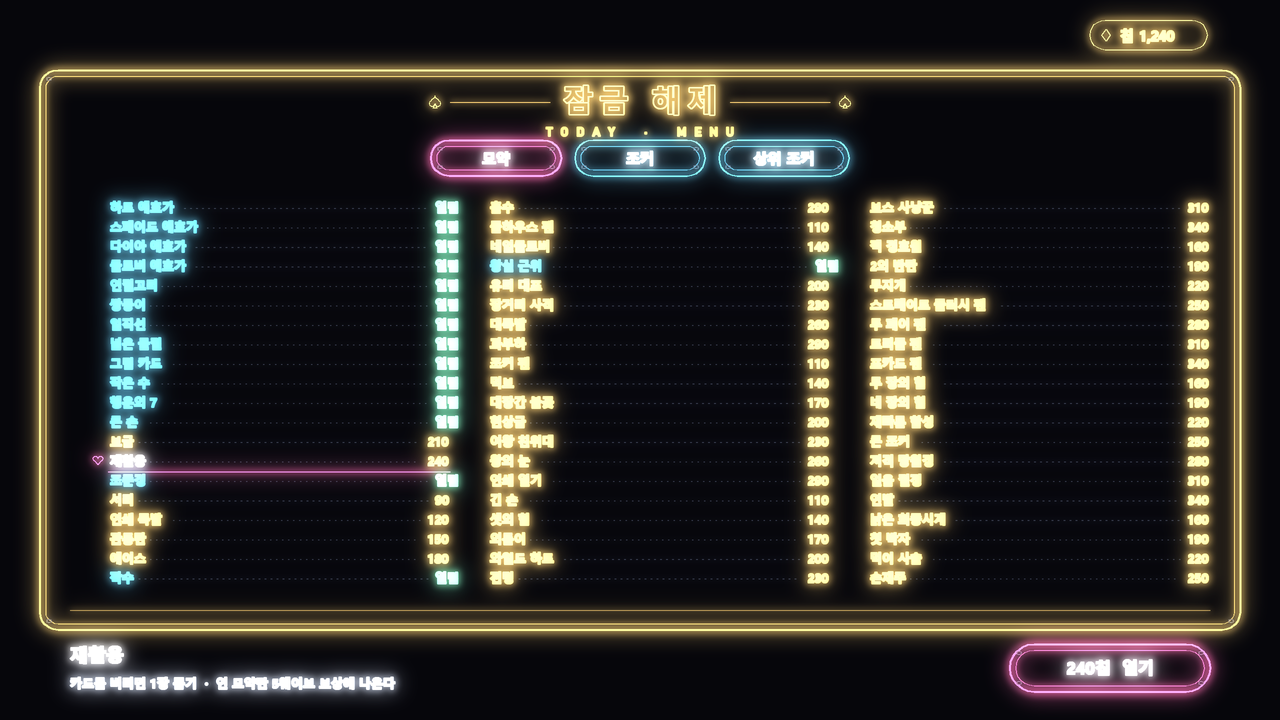
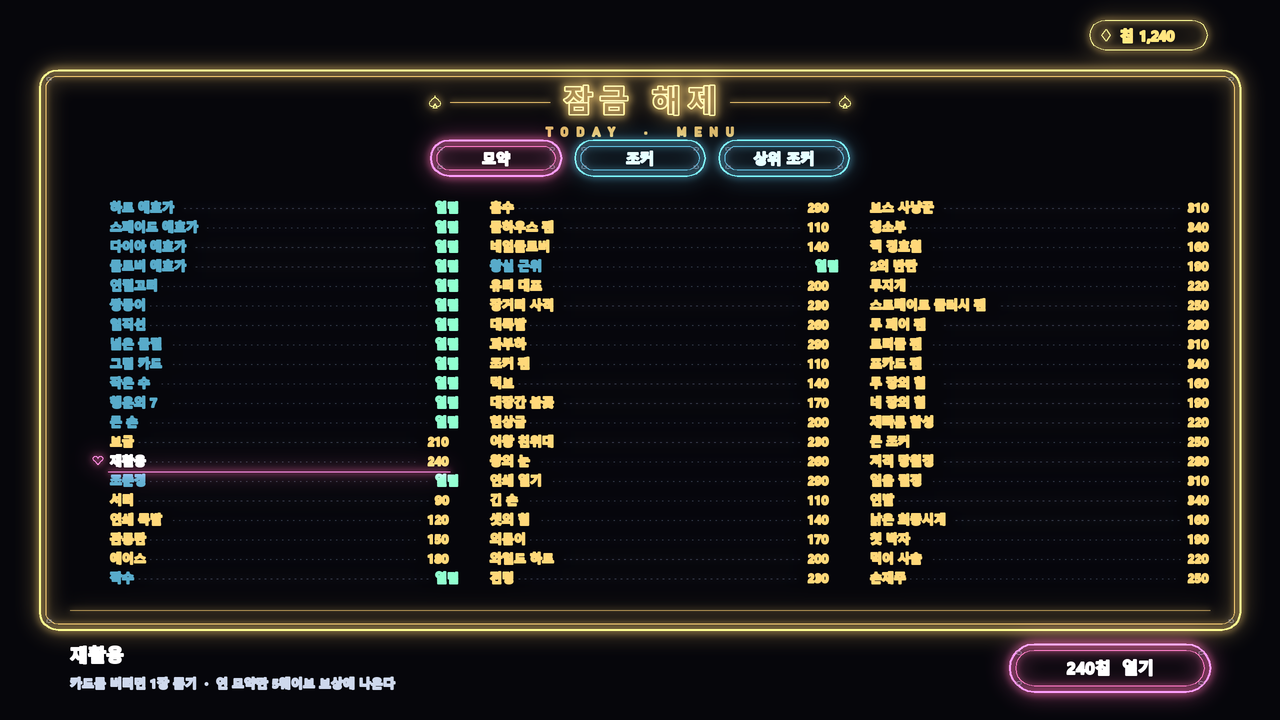
Unlock menu mockups: no glow on small text for readability (D-257)

diff --git a/tools/neon/logo_mock.py b/tools/neon/logo_mock.py
@@ -32,6 +32,7 @@ class Sign:
     def __init__(self, glow_k=1.0):
         self.lines, self.texts, self.dots = [], [], []
         self.glow_k = glow_k  # 빛번짐 세기 (색감을 죽인 시안은 낮춘다)
+        self.small_glow = 1.0  # 작은 글자(26px 미만)의 빛번짐 배율. 글이 많은 화면은 낮춰 읽기 쉽게 (D-257)
 
     def ln(self, pts, c, wd=2.0, b=1.0): self.lines.append((pts, c, wd, b))
     def rr(self, x, y, w, h, r, c, wd=2.0, b=1.0):
@@ -84,7 +85,8 @@ class Sign:
         for (x, y, ch, c, px, b, font) in self.texts:
             f = ImageFont.truetype(font, int(px * S))
             tw = max(2, int(px * S * 0.055))
-            if b > 0.25: gd.text((x * S, y * S), ch, font=f, fill=dim(c, b), anchor='ls', stroke_width=tw * 3, stroke_fill=dim(c, b))
+            gb = b * (self.small_glow if px < 26 else 1.0)
+            if gb > 0.05: gd.text((x * S, y * S), ch, font=f, fill=dim(c, gb), anchor='ls', stroke_width=tw * 3, stroke_fill=dim(c, gb))
             # 튜브: 외곽선만 (속은 배경색으로 다시 칠함)
             cd.text((x * S, y * S), ch, font=f, fill=dim(c, max(0.16, b)), anchor='ls', stroke_width=tw, stroke_fill=dim(c, max(0.16, b)))
             if px < 26:  # 작은 글자는 속을 비우지 않는다 (읽기 쉽게)

diff --git a/tools/neon/unlock_menu.py b/tools/neon/unlock_menu.py
@@ -100,7 +100,8 @@ def buy_btn(M, x, y, w, h, txt, c=PINK):
 
 # ---------------------------------------------------------------- A 벽 메뉴 보드
 def unlock_A():
-    M = Sign()
+    M = Sign(0.75)
+    M.small_glow = 0.0  # 글이 많은 메뉴판: 작은 글자는 빛번짐 없이 (D-257)
     chip(M, 1090, 20, f'칩 {CHIPS:,}')
     tube2(M, 40, 70, 1200, 560, 18, GOLD, 0.85)
     menu_header(M, 640, 112, '잠금 해제', 'TODAY  ·  MENU')
@@ -119,7 +120,8 @@ def unlock_A():
 
 # ---------------------------------------------------------------- B 메뉴북 (두 쪽)
 def unlock_B():
-    M = Sign()
+    M = Sign(0.75)
+    M.small_glow = 0.0  # 글이 많은 메뉴판: 작은 글자는 빛번짐 없이 (D-257)
     chip(M, 1090, 20, f'칩 {CHIPS:,}')
     tabs(M, 640, 22, 0)
     # 책: 두 쪽 + 가운데 접힘
@@ -162,7 +164,8 @@ def joker_icon(M, x, y, r, c, b=1.0):
 
 
 def unlock_C():
-    M = Sign()
+    M = Sign(0.75)
+    M.small_glow = 0.0  # 글이 많은 메뉴판: 작은 글자는 빛번짐 없이 (D-257)
     chip(M, 1090, 20, f'칩 {CHIPS:,}')
     # 천장 줄 (판을 매단 선)
     for x in (300, 980): M.ln([(x, 0), (x, 70)], DIMC, 1.0, 0.5)

diff --git a/docs/05-decision-log.md b/docs/05-decision-log.md
@@ -260,3 +260,4 @@
 | D-254 | 2026-11-15 | 버튼을 네온 간판 테두리로: 바깥 튜브 + 6px 안쪽 가는 튜브(조금 흐리게) + 양 끝 회색 고정 볼트. 고르지 않은 버튼은 둘 다 흐리게, 고른 버튼은 둘 다 켜짐. 시작 화면에 적용, 인게임 시안에도 같은 테두리 (title_front.py sign_btn, PaintTitle) | 사용자: 버튼도 네온 간판처럼 테두리 | — |
 | D-255 | 2026-11-15 | 시작 화면 뒤 게임판이 비치지 않게 배경 불투명. 버튼 테두리를 불이 들어온 네온 튜브로: 로고와 같은 흰 심 튜브 두 겹(바깥 + 안쪽 가는 것), 고르지 않은 버튼도 하늘색으로 켜져 있고(밝기 0.8) 고른 버튼은 분홍으로 더 밝게 숨쉼, 버튼 글자도 밝게 | 사용자: 테두리 색이 흐려서 싫다, 진짜 네온 간판처럼 | 흐린 튜브 (D-254) |
 | D-256 | 2026-11-15 | 잠금 해제 화면 시안 3종 (바 메뉴판 느낌, 버튼은 불 들어온 두 겹 튜브): A 벽 메뉴 보드(금색 틀 한 판에 묘약 60개를 3단 × 20줄 '이름 ···· 가격', 아래 띠에 설명 + 열기 버튼), B 메뉴북(펼친 두 쪽: 왼쪽 2단 목록 + 쪽 넘김, 오른쪽 고른 항목 크게 · 그림 틀 · 가격 · 열기), C 걸린 메뉴판 셋(가운데 큰 판 = 지금 탭, 양옆 작은 판 = 조커 · 상위 조커) (tools/neon/unlock_menu.py) | 사용자: 잠금 해제 UI 개선, 바 느낌에서 메뉴판 느낌으로 | — |
+| D-257 | 2026-11-15 | 글이 많은 화면은 작은 글자(26px 미만)에 빛번짐을 넣지 않는다: 글자는 깨끗한 색 글씨, 빛번짐은 틀 · 버튼 튜브 · 큰 제목에만. 전체 빛번짐도 0.75로 (Sign.small_glow, 잠금 해제 시안에 적용). 언리얼로 옮길 때도 같은 규칙 | 사용자: 네온이 너무 강해 글 가독성이 떨어진다 | — |
